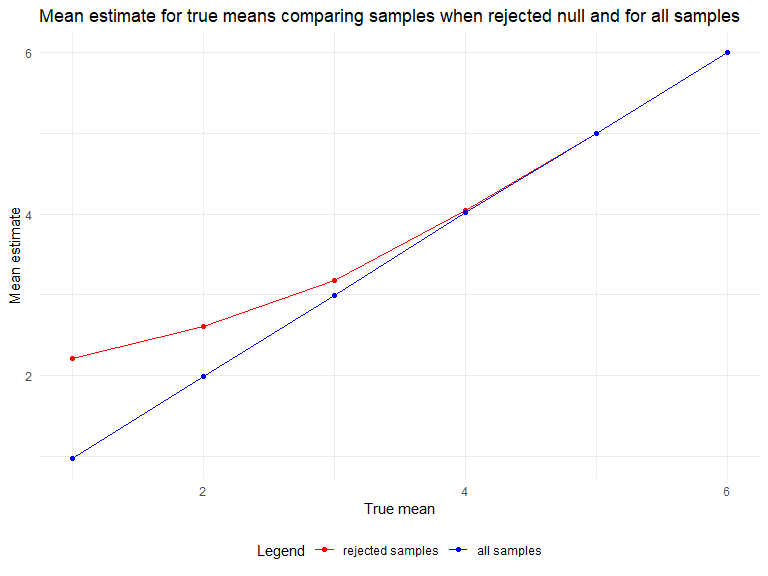
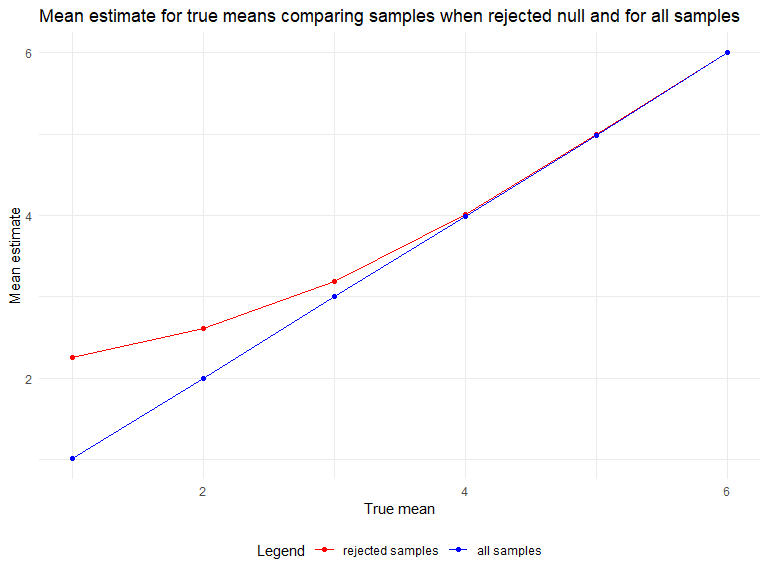
final commit

diff --git a/p8105_hw5_as6445.md b/p8105_hw5_as6445.md
@@ -1,7 +1,7 @@
 p8105_hw5_as6445
 ================
 Ayako Sekiya
-2022-11-05
+2022-11-16
 
 ## Problem 1
 
@@ -220,11 +220,14 @@ homicide =
 There are 52179 observations and 12 columns in the homicide data. The
 variables included are as following: uid, reported_date, victim_last,
 victim_first, victim_race, victim_age, victim_sex, city, state, lat,
-lon, disposition.  
+lon, disposition.
+
 Create a city_state variable (e.g. “Baltimore, MD”) and then summarize
 within cities to obtain the total number of homicides and the number of
 unsolved homicides (those for which the disposition is “Closed without
 arrest” or “Open/No arrest”).
+
+I summarized the count by using `group_by()` and `count()`.
 
 ``` r
 homicide_data= homicide %>% 
@@ -332,16 +335,16 @@ expand_grid(
     ## # A tibble: 5,000 × 4
     ##    means iteration estimate p.value
     ##    <dbl>     <int>    <dbl>   <dbl>
-    ##  1     0         1  -1.40    0.0799
-    ##  2     0         2   0.285   0.770 
-    ##  3     0         3  -0.767   0.393 
-    ##  4     0         4  -0.799   0.309 
-    ##  5     0         5  -0.792   0.388 
-    ##  6     0         6   0.466   0.574 
-    ##  7     0         7  -0.872   0.320 
-    ##  8     0         8  -0.949   0.327 
-    ##  9     0         9   0.0736  0.940 
-    ## 10     0        10  -0.961   0.251 
+    ##  1     0         1    1.27   0.151 
+    ##  2     0         2    0.124  0.915 
+    ##  3     0         3   -0.852  0.313 
+    ##  4     0         4    1.63   0.0619
+    ##  5     0         5    0.468  0.619 
+    ##  6     0         6    2.03   0.0399
+    ##  7     0         7   -0.855  0.475 
+    ##  8     0         8   -0.649  0.492 
+    ##  9     0         9   -0.131  0.872 
+    ## 10     0        10    0.104  0.925 
     ## # … with 4,990 more rows
 
 Simulate for μ={1,2,3,4,5,6}:
@@ -349,7 +352,7 @@ Simulate for μ={1,2,3,4,5,6}:
 ``` r
 sim_results_df = 
   expand_grid(
-    means = c(1, 2, 3, 4, 5, 6),
+    means = c(1:6),
     iteration = 1:5000
   ) %>% 
   mutate(
@@ -403,7 +406,7 @@ plot1
 ggsave("results/plot1.pdf", plot1, width = 20, height = 10)
 ```
 
-When the true value of mu increases, power also increases.
+When the effect size increases, power also increases.
 
 #### Create some more plots!
 
@@ -457,3 +460,8 @@ mu increases, the averages of mu when the null is rejected gets closer
 to the true mu until the true value of mu is 4. After this point, the
 averages of mu rejecting the null and the true value of mu are very
 close together.
+
+When mu=1 the effect size is really small and power will also be small,
+so we will less likely have estimates that reject the null. As mu
+increases, effect size also increases, so we will be more likely to
+reject the null.
